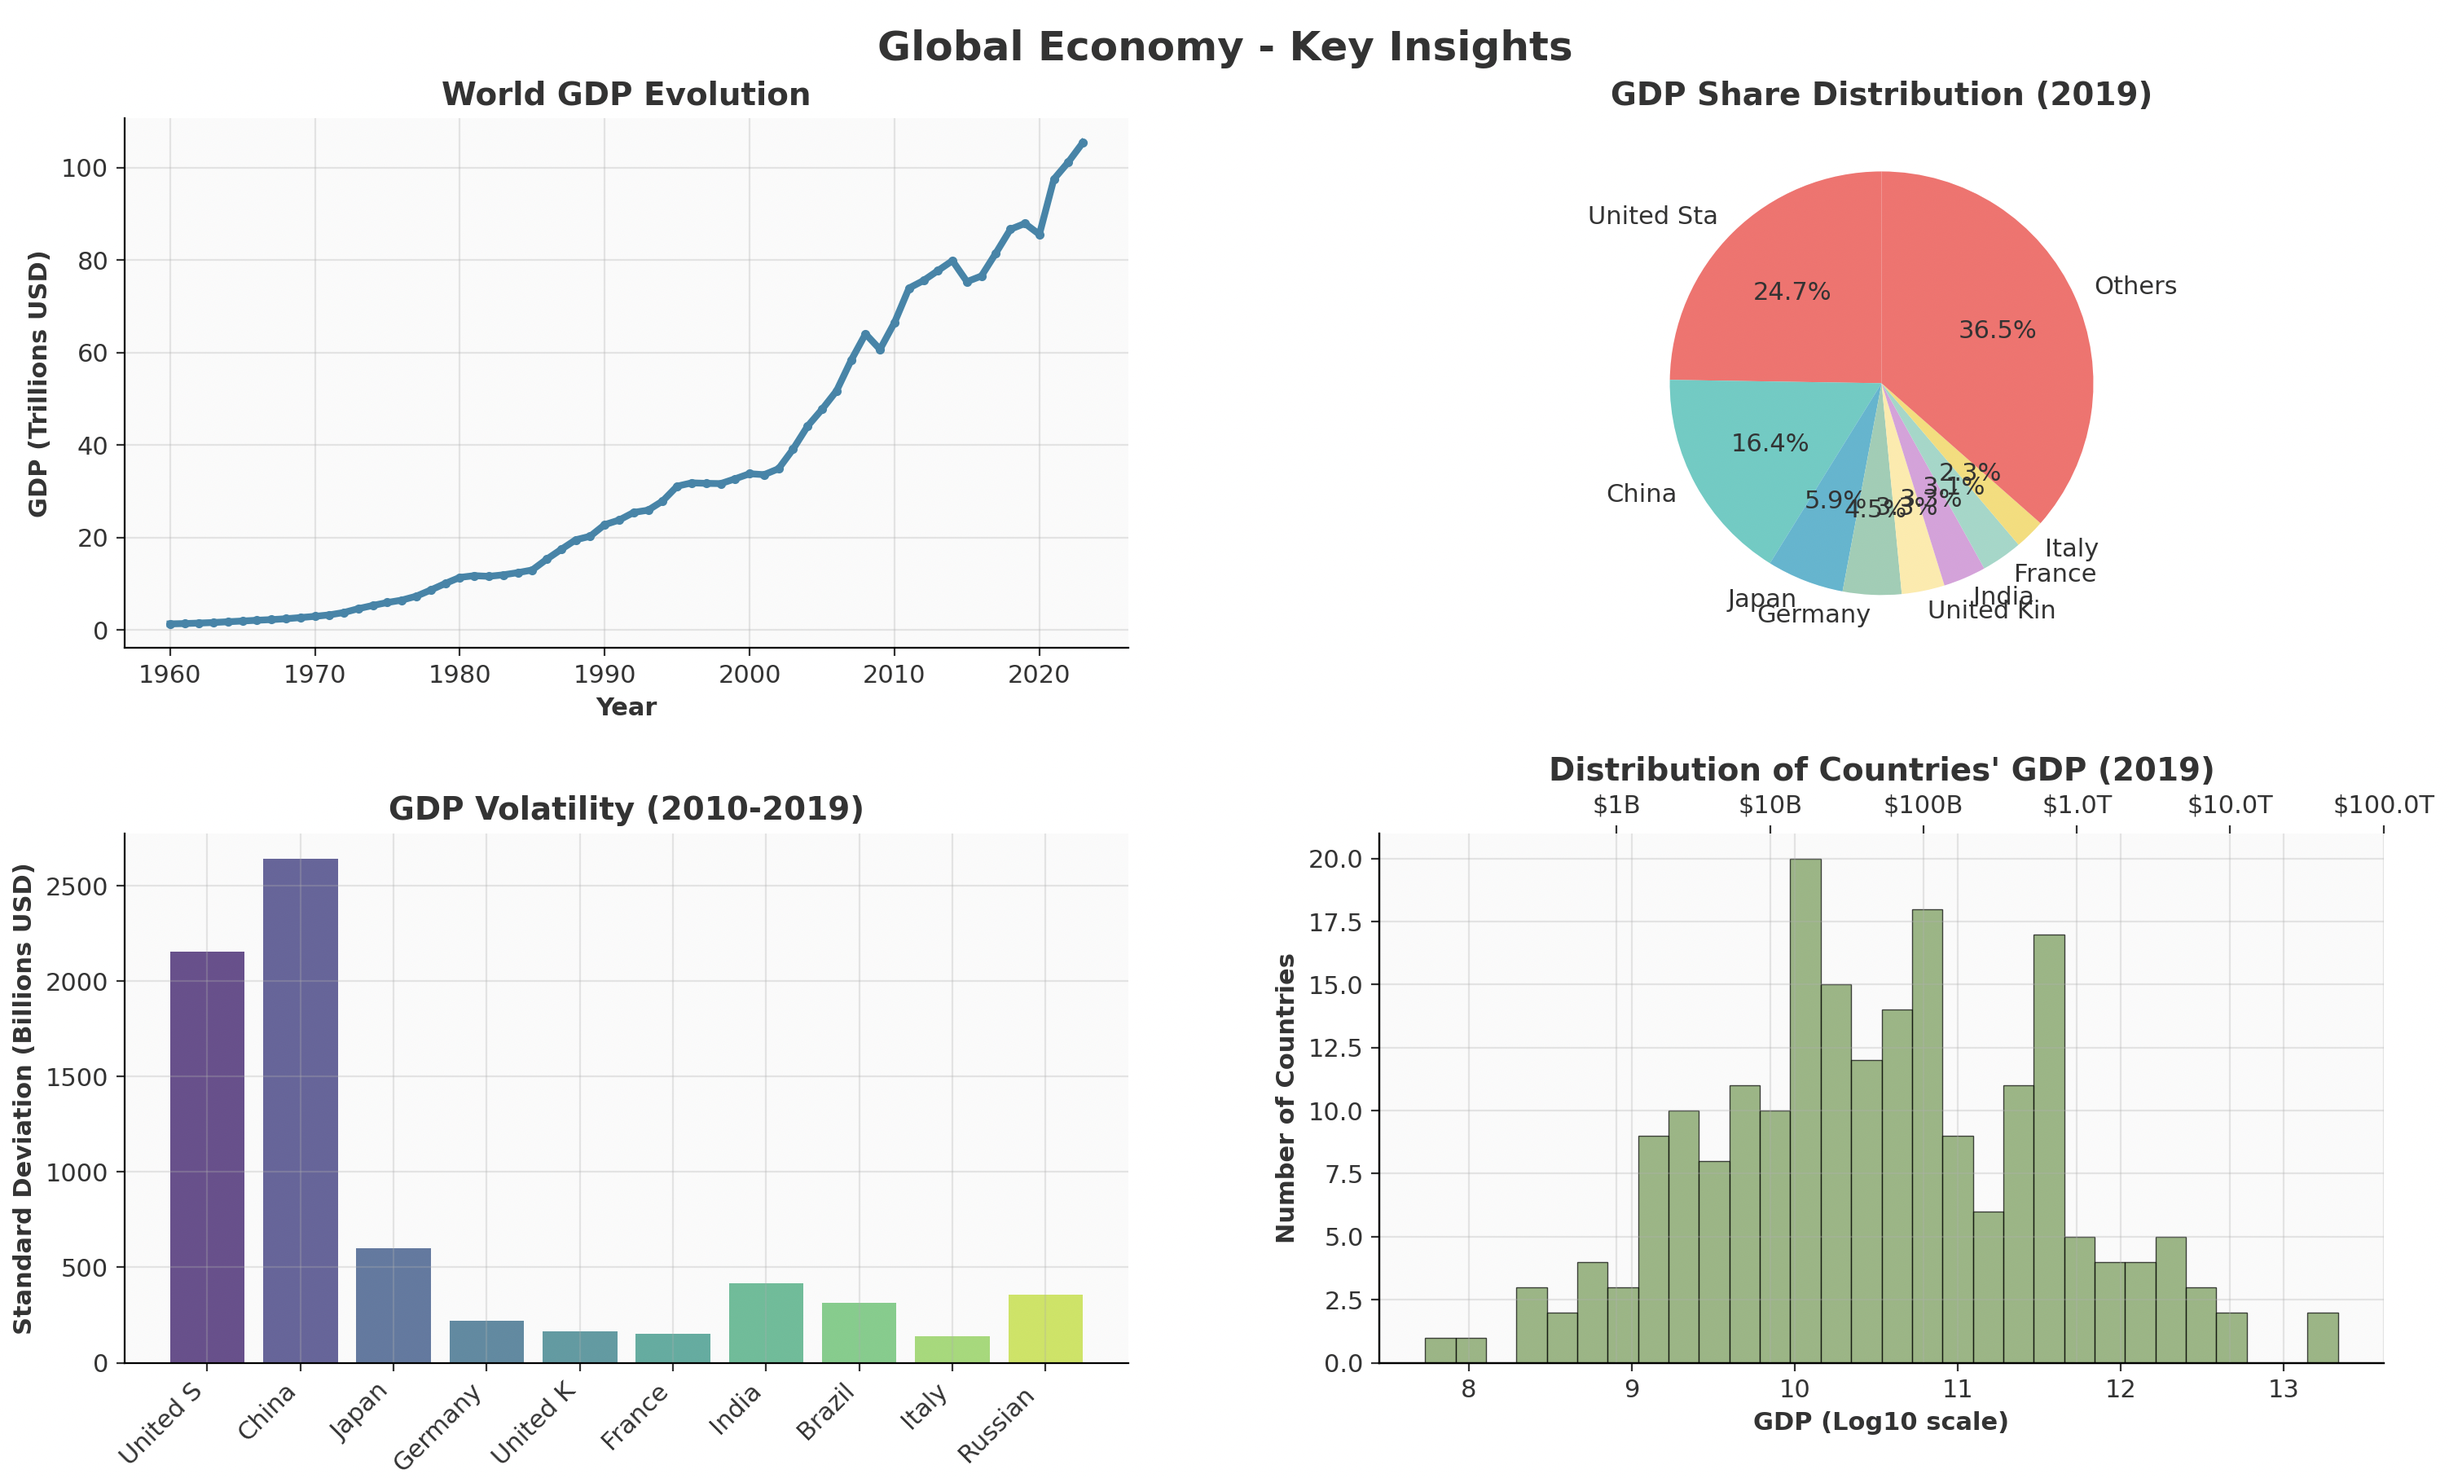
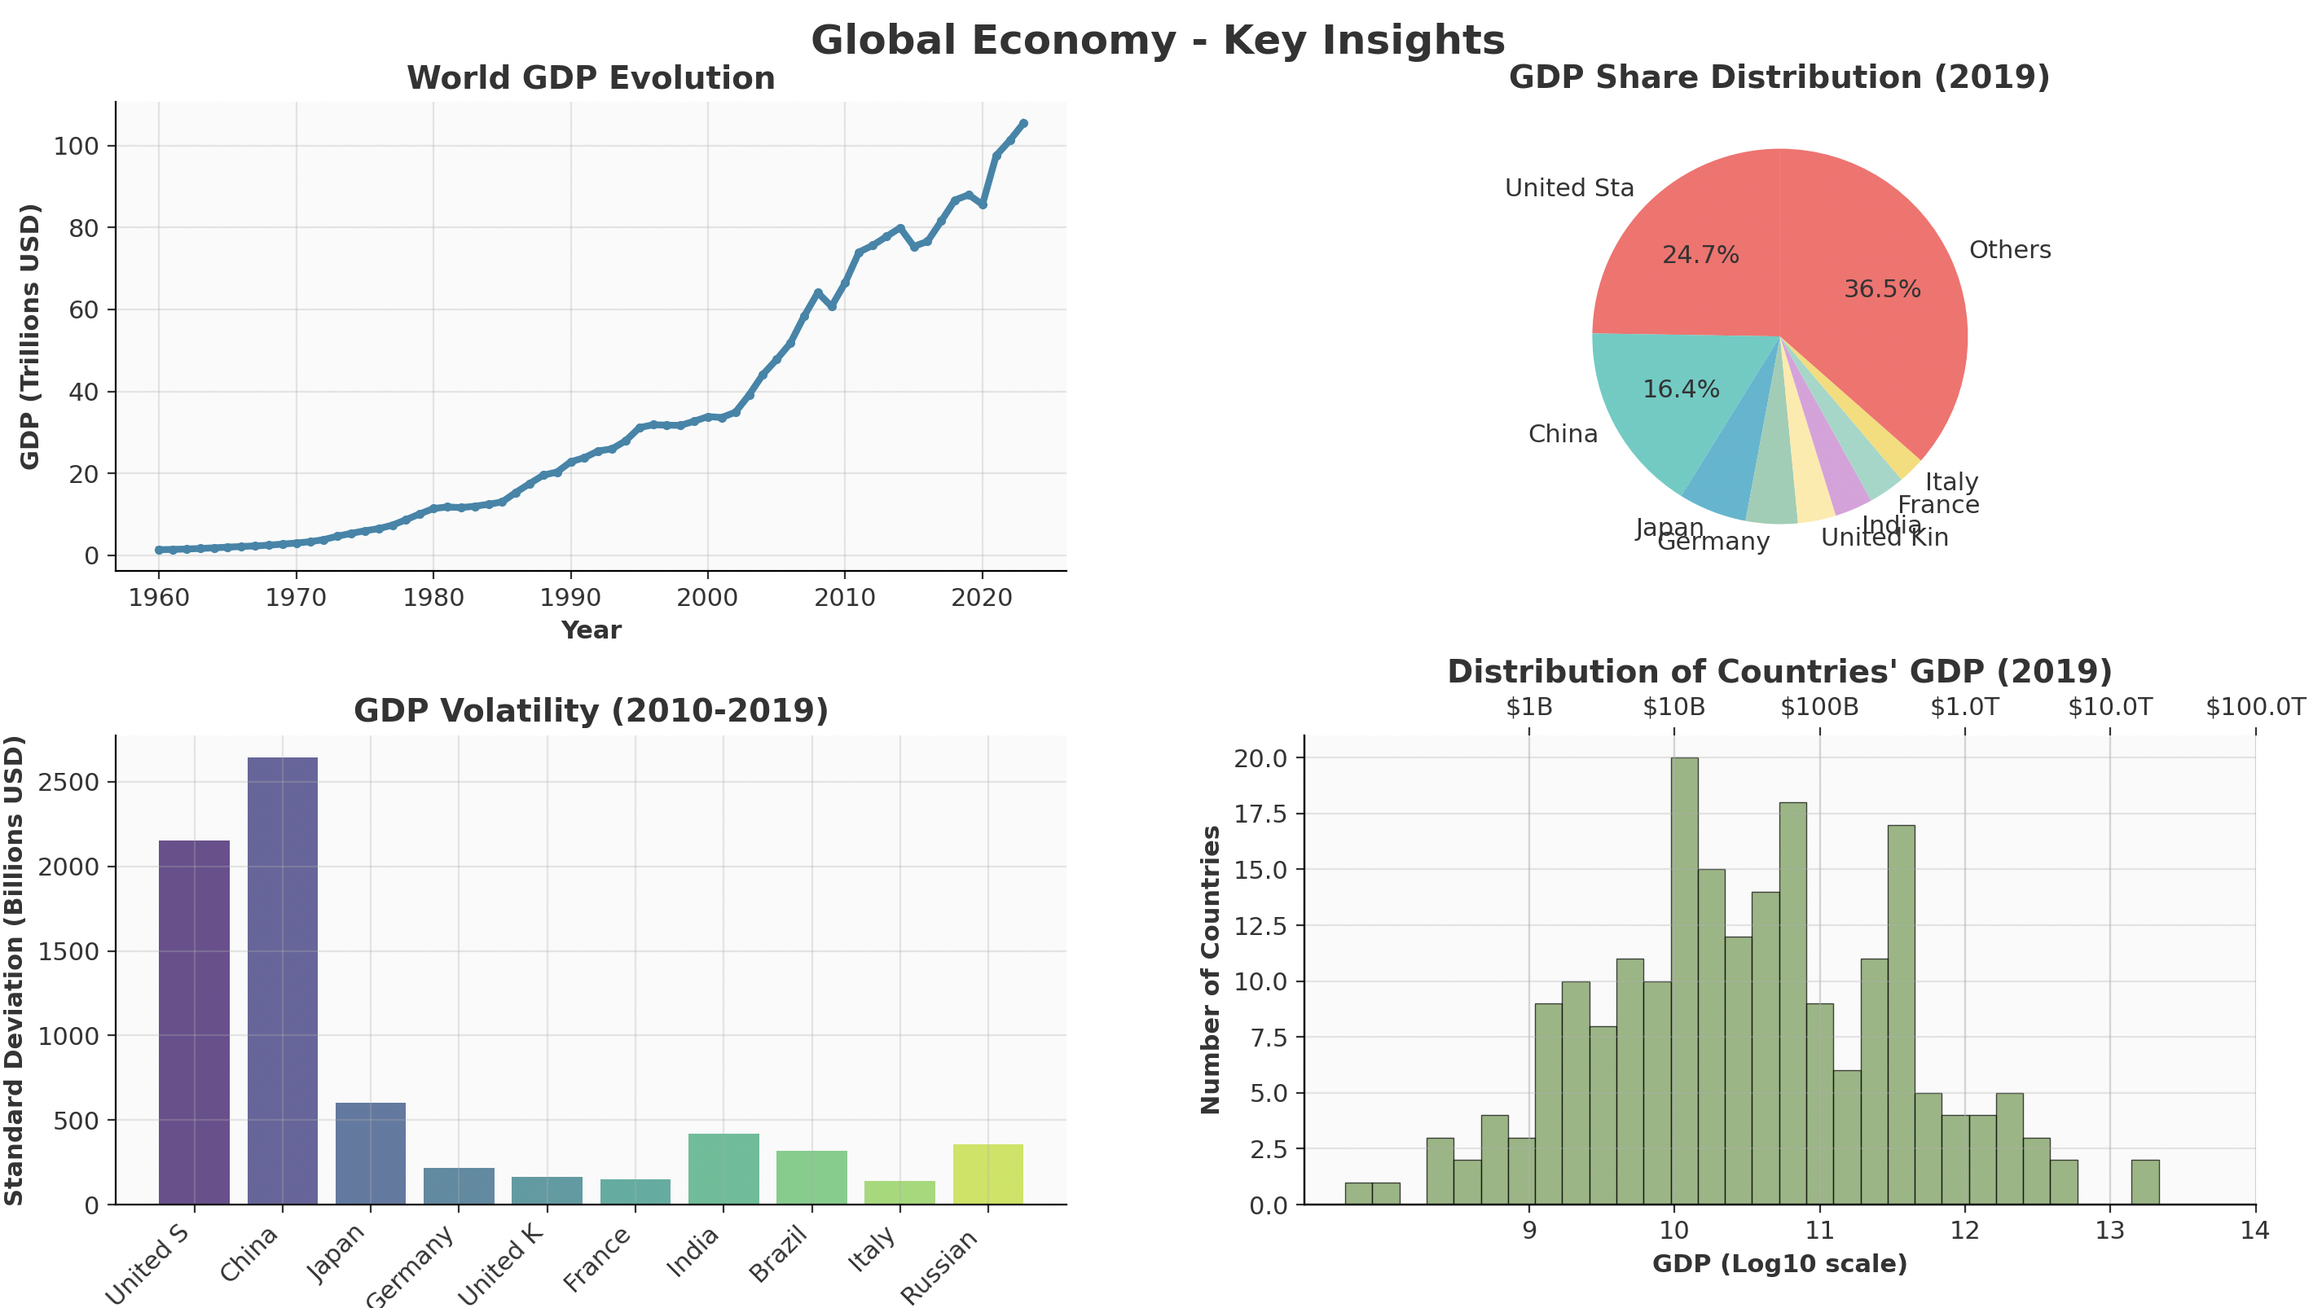
more zen

diff --git a/pms/dataviz2/files/session_1_f.py b/pms/dataviz2/files/session_1_f.py
@@ -292,8 +292,13 @@ def exercise_4_subplots():
     pie_values = list(top_8['Value']) + [others_value]
     pie_labels = list(top_8['Country Name'].str[:10]) + ['Others']
     
-    wedges, texts, autotexts = ax2.pie(pie_values, labels=pie_labels, autopct='%1.1f%%',
-                                       colors=colors_accent, startangle=90)
+    # Create autopct function to show percentage only for values > 16%
+    def autopct_format(pct):
+        return f'{pct:.1f}%' if pct > 16 else ''
+
+    wedges, texts, autotexts = ax2.pie(pie_values, labels=pie_labels,
+                                    autopct=autopct_format,
+                                    colors=colors_accent, startangle=90)
     ax2.set_title('GDP Share Distribution (2019)', fontweight='bold', fontsize=14)
     
     # 3. Bottom-left: GDP volatility (std dev 2010-2019) for top 10 economies
@@ -326,9 +331,12 @@ def exercise_4_subplots():
     ax4.set_ylabel('Number of Countries', fontweight='bold')
     ax4.grid(True, alpha=0.3)
     
+    # Set consistent ticks for both axes
+    log_ticks = [9, 10, 11, 12, 13, 14]
+    ax4.set_xticks(log_ticks)
+    
     # Add log scale labels for better interpretation
     ax4_twin = ax4.twiny()
-    log_ticks = [9, 10, 11, 12, 13, 14]
     ax4_twin.set_xlim(ax4.get_xlim())
     ax4_twin.set_xticks(log_ticks)
     ax4_twin.set_xticklabels([f'${10**x/1e12:.1f}T' if x >= 12 else f'${10**x/1e9:.0f}B' for x in log_ticks])
